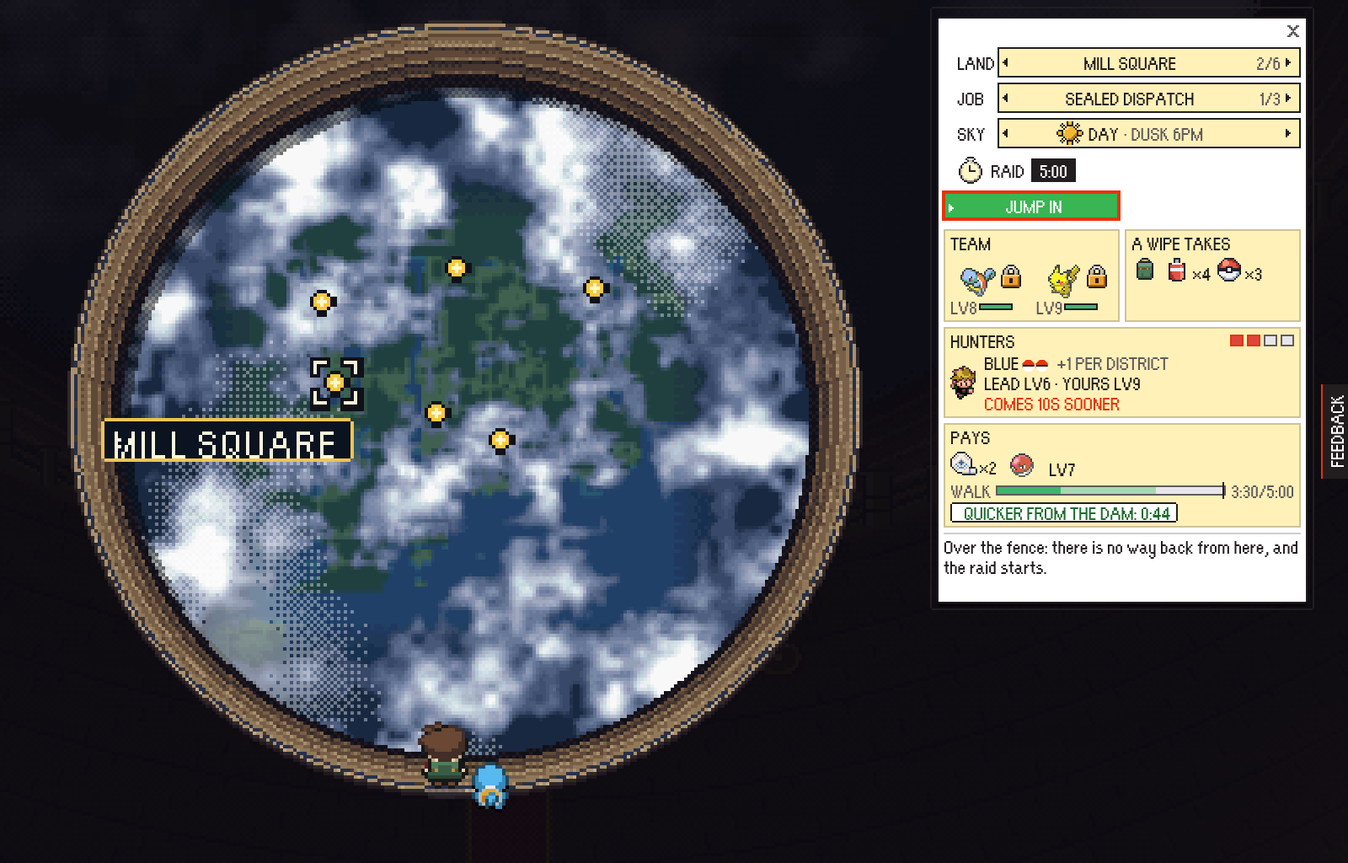
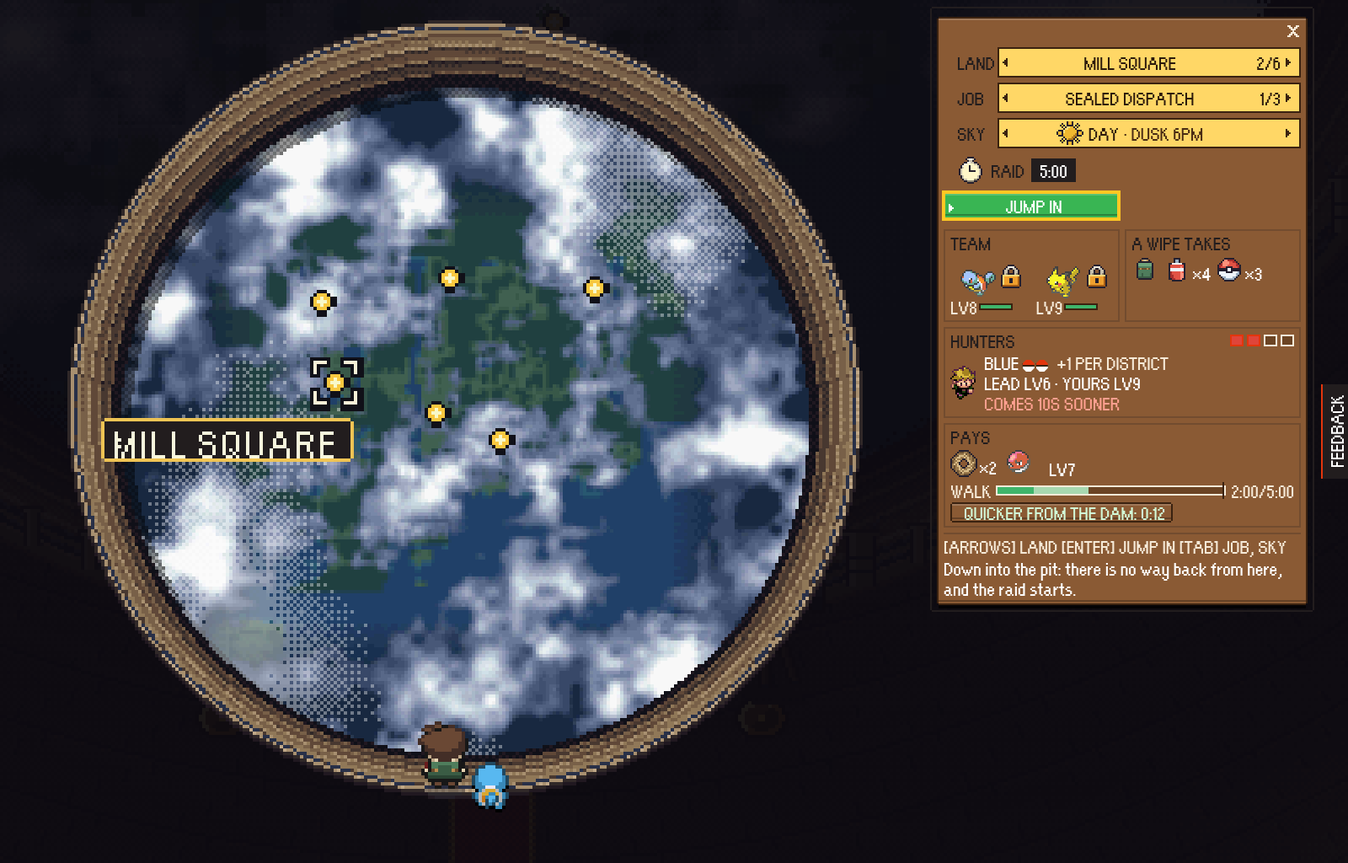
The rim's card stands on the wood floor: the card every raid is started from (#1026)
Down the side of the pit, in THE RAID ARENA: a white sheet, a quarter of
the picture plain white. The menu audit opens the hall's bench, rack and
locker and not its rim, so it was the last white screen found. It is on
the wood floor by view (`'rim'` in `WOOD_FLOOR_VIEWS`): 25% white to 0%,
colour 25 to 44.

- LAND, JOB and SKY are each a lit window beside their label: what
  stands in one is lettered in the plate's ink.
- A warning on the card's own boards - a hunter coming sooner, a walk
  the clock will not allow, a jump refused - is the light red the map
  maker's faults are. One inside a lit window keeps the page's.
- The front page's picture from the rim is retaken.

rimCard.mjs, rimRefusal.mjs and portal.mjs take --port, to drive the
one browser a worker is allowed, and start from no save when they do.

Changed region(s): [[0.6875, 0.0, 0.9688, 0.7188], [0.3125, 0.2812, 0.3438, 0.3438]]

diff --git a/src/style.test.ts b/src/style.test.ts
@@ -972,7 +972,7 @@ describe('the last white screens on the wood floor', () => {
     // The swap of a last Pokémon and the stats page: the hub and the stats scene have nothing under them.
     const wall = body('.pixel-ui.wood-floor .px-body:is(.starter-shell, .stats-layout, .stats-message-layout)');
     expect(wall).toContain('background: repeating-linear-gradient(180deg, var(--paper-sunk) 0 calc(var(--u) * 15), var(--line) calc(var(--u) * 15) calc(var(--u) * 16));');
-    expect(await readFile(new URL('./game/scenes/HubScene.ts', import.meta.url), 'utf8')).toContain("const WOOD_FLOOR_VIEWS: readonly HubView[] = ['workshop', 'trader', 'daycare', 'trades', 'reselect'];");
+    expect(await readFile(new URL('./game/scenes/HubScene.ts', import.meta.url), 'utf8')).toContain("const WOOD_FLOOR_VIEWS: readonly HubView[] = ['workshop', 'trader', 'daycare', 'trades', 'reselect', 'rim'];");
     // And the starter under the cursor or the pointer is lit: lettered in the plate's ink.
     expect(body('.pixel-ui.wood-floor .px-body .starter-card:is(.is-selected, :hover)')).toContain('--ink: var(--raised-ink);');
   });
@@ -985,6 +985,16 @@ describe('the last white screens on the wood floor', () => {
     expect(body(':where(.pixel-ui) .px-heading .px-tag-risk')).toContain('color: #ffa090;');
     // The tool in hand is a chip washed green: lettered in the plate's ink.
     expect(body('.pixel-ui.wood-floor .px-body .px-chip:is(.maker-tool, .maker-area).is-selected')).toContain('--ink: var(--raised-ink);');
+  });
+
+  it("letters the rim card's lit windows in ink, and its warnings on the boards in a red that reads", () => {
+    // The card every raid starts from: LAND, JOB and SKY are lit windows beside their labels.
+    expect(body('.pixel-ui.wood-floor .px-body .rim-choice > :not(.rim-choice-label)')).toContain('--ink: var(--raised-ink);');
+    const warnings = [...plain.matchAll(/([^{}]+)\{([^{}]*)\}/g)].find(([, selectors]) => selectors.includes('.pixel-ui.wood-floor .px-body .rim-card .px-warning,'));
+    expect(warnings?.[1]).toContain('.rim-walk.is-warn .rim-walk-time');
+    expect(warnings?.[2]).toContain('color: #ffa090;');
+    // One inside a lit window is on a plate, and keeps the page's red.
+    expect(body('.pixel-ui.wood-floor .px-body .rim-card .rim-choice .px-warning')).toContain('color: var(--red);');
   });
 
   it('makes the move chooser on it wherever it opens, beside a raid or over the chest', async () => {

diff --git a/src/style.css b/src/style.css
@@ -7500,6 +7500,23 @@ body.touch-play .feedback-tab {
 .pixel-ui.wood-floor .px-body .px-row.maker-fault:focus {
   color: var(--red);
 }
+/* The rim's card: LAND, JOB and SKY are each a lit window beside their label,
+   white under the cursor - what stands in one is on a plate. */
+.pixel-ui.wood-floor .px-body .rim-choice > :not(.rim-choice-label) {
+  --ink: var(--raised-ink);
+  --ink-soft: var(--raised-ink-soft);
+  color: var(--ink);
+}
+/* And a warning on the card's own boards - a hunter coming sooner, a walk the
+   clock will not allow, a jump refused - is the light red of a title strip's
+   warning: the page's red is dark on dark there. One in a lit window keeps it. */
+.pixel-ui.wood-floor .px-body .rim-card .px-warning,
+.pixel-ui.wood-floor .px-body .rim-card .rim-walk.is-warn .rim-walk-time {
+  color: #ffa090;
+}
+.pixel-ui.wood-floor .px-body .rim-card .rim-choice .px-warning {
+  color: var(--red);
+}
 /* A part there is enough of is a tag washed green, and so a plate too. */
 .pixel-ui.wood-floor .px-body :is(.part-tag, .workshop-cost):not(.is-short) {
   color: var(--raised-ink);

diff --git a/src/game/scenes/HubScene.ts b/src/game/scenes/HubScene.ts
@@ -269,10 +269,11 @@ type HubView = HubPanel | 'reselect' | 'workshop' | 'trader' | 'wallmap' | 'dayc
  * `style.css`, `docs/screens/wood-floor/`): a shop of shelves and a workshop
  * of benches, which were sheets of white paper, and the Day-Care's and the
  * Trader's, whose field is a place already and whose list under it was the
- * sheet, and the swap of a last Pokémon, three white cards on black. Oak's
- * screens and his map are not: they are drawn as his own.
+ * sheet, the swap of a last Pokémon, three white cards on black, and the
+ * rim's card, a white sheet beside the pit. Oak's screens and his map are
+ * not: they are drawn as his own.
  */
-const WOOD_FLOOR_VIEWS: readonly HubView[] = ['workshop', 'trader', 'daycare', 'trades', 'reselect'];
+const WOOD_FLOOR_VIEWS: readonly HubView[] = ['workshop', 'trader', 'daycare', 'trades', 'reselect', 'rim'];
 
 /**
  * How much of the menu layer a panel over the hall may take, in game pixels: as

diff --git a/docs/agents/ui-and-screens.md b/docs/agents/ui-and-screens.md
@@ -35,7 +35,7 @@ Moved out of `AGENTS.md` on 9 Nov 2026 so that file stays small; nothing here wa
 - **Every screen keeps one keys line that never goes** (the navigation audit, 25 Nov 2026, rule 9). `pixelScreen`'s help bar is three lines: the help for the control under the cursor (or the pointer) on the top two, and `hints` on the bottom one (`.px-keys`, `data-keys`), which no control's help replaces. A note about the screen as a whole that is not a key - what becomes of a raid's result - is `helpDefault`, shown on the help line while the control has nothing of its own to say. Before, the help took the keys line's place from the first frame and every hall panel hid its keys. A hall panel's keys are `HubScene.hints`; the rack names its own (Left and Right are the counts', Tab crosses to the pack). The keys lines speak one set of words: `ARROWS move` (or `ARROWS read` where nothing is chosen), the panel's OK word and what it does (`ENTER play`), the screen's own letters, then `ESC back` - never `ESC leaves`, `ESC close`, `O or ESC back` or `X close`, and never where back goes. A panel's OK word is ENTER, as its help lines say; a screen being typed in says ENTER too, since SPACE types a space there.
 - **Tab hops between the areas of a screen and never leaves the panel** (the navigation audit, 25 Nov 2026, rule 10). `MenuOverlay.moveCursor('Tab')` first crosses from a row into the pane it shows (`detailStepIndex`; out of the pane Tab goes on and Shift+Tab goes back to the row, because crossing back and forth never left a list with a pane), and otherwise goes to the next area - each outermost framed window that is not itself a control, the bar under them, the header - with Shift+Tab going back, landing where the cursor last was in that area (`areaHopIndex` in `ui/menuFocus.ts`). It always takes the key, so the browser's own Tab never walks the cursor out into the page; on a screen of one area it steps to the next control round the panel. Tab out of a text field is handed to the screen too (`overlayKeyboard.ts`, the one key a field does not keep), which is what keeps YOUR TEAM's FIND box from dropping the highlight off the panel. THE ARMOURY RACK used it to reach its PACK side; the rack opens YOUR THINGS now (`docs/screens/pack-flow/`). A screen that handles Tab itself (the boutique) is asked first, as before.
 - **Every menu and pop-up is the round-3 look, "a Poke Ball, opened": five colours, one job each, and no navy, blue or cream anywhere** (the captain, 25 Nov 2026: "It must be the new way of doing it ... Do not keep any of the old menu style"; the mock-ups and why are `docs/screens/menu-look/`). Ink and white are everything else (words, paper, lines, strips); **red is "can be lost"** (the raid pack, a wipe, the cursor's arrow) with one named exception, the title strip's seam; **gold is the chosen thing and prices** (the row under the cursor is gold's wash, a focused card is outlined in gold two pixels deep); **green is safe, ready, go** (the main button, the locker, healing). A Pokemon type is an ink chip with a small square of FireRed's own colour (`.px-type`, `--type`), so a type never competes with the five. `src/game/ui/uiPalette.ts` names the canvas colours by role (`UI.paper`, `UI.ink`, `UI.cursor`, `UI.pointed`...) and `uiPalette.test.ts` holds the text to WCAG AA and the stylesheet's tokens (`--paper`, `--paper-lit`, `--paper-sunk`, `--ink`, `--line`, `--red`, `--cursor`) to it. `drawFramedWindow` (in `pixelWindow.ts`) is one line of ink with clear corners round white paper; `FRAME_DEPTH` is still the inset every pop-up's words keep, and `drawPopupCursor` the red cursor with its shadow. The overworld and harbour dialogue boxes, `ChoicePrompt`, the phrase list and the battle are drawn in it; the harbour's box is the raid's width (`BASE_STAGE_WIDTH - 16`), because at 232 it held 38 letters a row and Nurse Joy's hello was ten presses cut mid-sentence. `ChoicePrompt` puts the answers in a window standing on the right end of the question's box, sharing its top line, one under another (or `columns` abreast, a lift's floors), every answer in full ink and the cursor the only mark, and each whole row a tap target. Anything that keeps clear of a question asks `ChoicePrompt.bounds`, which covers the answer window too. `tools/playtest/popupShots.mjs` photographs every pop-up the harbour opens (`--raid` for the raid's), and `tools/playtest/menusAudit.mjs` every menu the harbour opens. **On a DOM screen**: the title strip (`.px-title`) is ink with the red seam under it, a drawn Poke Ball before the name, the one number that matters in a white pill (`.px-title-aside`) and the X a white square that turns red under the cursor; behind a screen is the place it was opened in, dimmed (`--backdrop`, translucent, over the paused scene) rather than a pattern; a card (`.px-window`) is white in one line of ink with clear corners and a hard pixel shadow under it; its heading strip is ink, green on a `px-tone-care`/`px-tone-secure` card and red on a `px-tone-risk` one - the colour says what kind of card it is, never a tint over the paper; a button stands up on a pixel of ink and is green with white letters when it is the one that goes. The whole screen carries one ink line round it (`.px-screen::after`), painted over its own edge so it costs a column no room. **Over the map**, anything that reads as interface - a chip, a label, a name tag, the touch pad's key chips - is the same ink and white (`WINDOW_PAPER` is white; the harbour's fixture and landmark labels and the arena's name plates are ink); only what is painted in the world (a sign's wood, the FireRed controls of the pad) keeps its own colours. A screen with nothing to choose yet starts with no cursor rather than on its X (`HubScene`'s `refocus`).
-- **White is a plate, never the floor: a screen stands on the wood floor** (the captain, 26 Nov 2026, of the menus "that just have that bright white background": "something's just not quite right"; of the study's picks, "Go with all of your decisions"; and of the two mock-ups, "I actually prefer the kind of brown ... the woody colour, over the black. The army aesthetic of Tarkov shouldn't be used - it should all be Pokémon"; `docs/screens/wood-floor/` is the study, each screen's before and after and its colour score). The world has no white ground, so a screen that was a sheet of white paper was the brightest, greyest thing in the game - at night nearly three times as bright as the harbour behind it. A screen opts in with `wood-floor` beside `pixel-ui` where its `MenuOverlay` is made (`ThingsScene` and `ChestPokemonScene` were the first: YOUR THINGS, THE CHEST and everything they open; the three Game Corner cabinets and the promenade's games are on it with their line-ups, `docs/agents/harbour.md`; Bill's Cottage, Brock's Workshop, the Day-Care and the Trader are on it by view (`WOOD_FLOOR_VIEWS` in `HubScene`, toggled in `render`, because the hub's one overlay shows every keeper's screen, and Oak's own are not on it); YOUR TEAM (`TeamScene`, the hall's bench with it), the favours and the knock at a door (`FavourListOverlay`, `KnockOverlay`), the Battle Arena's counter, the feedback panel and the console's games were the last (a field is one plank there, and lit while it is typed in, so lettered in the plate's ink) and HELP and SETTINGS by `ControlsScene` (SETTINGS in the world's pixel as well: on paper there its one sheet was a bigger share of the screen than it had been in the finer one); the raid's own panels came after, found by photographing what `menusAudit.mjs` never opens (the pack and a disc read in it, the party, the field guide, and the move chooser wherever it opens: `BagScene`, `PartyScene`, `ObjectivesScene`, `MoveChooserOverlay`) - a party slot under the cursor, the leader's or one picked up and the pack's tile under the cursor are lettered in the plate's ink, and the move being learned, a move marked to forget and a bar turned green to ask are whole plates of the page's palette, because they carry coloured tags (`--safe-ink` and `--red-ink` are pale on wood); and the two naming screens, the swap of a last Pokémon (`'reselect'` in `WOOD_FLOOR_VIEWS`) and the owner's stats page, where **a screen with no place behind it stands its boards against a wall of darker boards, never on black** (`.px-body:is(.starter-shell, .stats-layout, .stats-message-layout)`: the captain prefers brown wood to black); and last the map maker and the explorer run's PLAYTEST BOARD, where **red words on the boards themselves are `#ffa090`, the light red of a title strip's warning** (the page's `--red` is dark on dark there and the floor's `--red-ink` too pale to read as red; a fault's tile is a raised chip and keeps the page's) - which is where it was learnt that **a block of ink lettered in white inside a body is `--bar`/`--bar-text` or `--plate-ink`/`--plate`, and anything written on gold is `--plate-ink`**: the shop card's head, count and key, HELP's key caps, Bill's rank and a price were `--ink` on `--paper`, and on wood came out white lettered in brown; and that a question asked before something is spent (`.px-arming`, washed red) is a plate whose warning is `--wash-red-ink`, the page's red being under 3:1 on that wash; `BoutiqueScene` is THE HARBOUR BOUTIQUE and the wardrobe, where the shelves are boards, a card on one a board of its own, the glass a plate of the lighter wood in its gold frame, and a lit card, a worn honour and a HAVE tag lettered in the plate's ink - and a key's cap (`.px-keycap`) and a strip drawn inside a body (`.bq-slot-head`) are `--plate-ink`/`--plate` and `--bar`/`--bar-text`, never `--ink`/`--paper`, which that floor remaps; the raid's result is on it whole - the moment, the full report, a lost raid's account and a raid settled elsewhere, `ExtractionScene.dressForWhatIsShown`. A tile washed by what became of its thing (`.result-tile`) is a plate lettered in the plate's ink, tick and all, and the bar a screen's way on stands on (`.confirm-bar`) is one plank, because a seam every sixteen pixels ran through the feet of its title), and `.pixel-ui.wood-floor .px-body` in `src/style.css` remaps what a body is drawn in: `--paper` is a board of warm brown wood (a card is boards, a seam every sixteen pixels: `--grain` on `.px-window`, reset on a control and on a plate), `--paper-sunk` an empty square, `--paper-raised` the plate of lighter wood a thing or a button stands on, `--paper-lit` and the washes light plates. The title strip and the help strip are outside the body and unchanged. **Wood is a middle tone, so only white and the palest inks read on a board and only dark ones on a raised plate**: `--ink`/`--ink-soft` and the coloured inks are near-white on the boards, whatever stands on a raised plate reads `--raised-ink` (one rule lists those parts: add a new raised part to it, and give it `color: var(--ink)` of its own, because `color` is inherited already worked out), and **words that are more than a label go on a plate of paper**: `px-plate` on a window (the description bar, a question) gives it the page's whole palette back, because the rule that names `:root` names it - and names whatever is lit or washed with words on it (the row under the cursor, a chosen row), so a lit row is FireRed's light bar with ink on it. **Every rule goes on reading `--paper` and `--ink` and is right on either floor**; what must stay white or ink whatever the floor says so with `--plate`/`--plate-ink` (a count's pill, a key's cap on a green button), the strips' `--bar`/`--bar-text`, or a literal white on a filled button. **Three rules of light go with the floor**, because a flat board is a flat sheet in another colour: a card has a lit lip and a dark foot (`--lip`, `--foot`, laid over whatever it is filled with, so a green button gets them too), an empty square is sunk and a filled one raised (`--sunk`, `--raised`, box-shadows that are nothing on paper), and a shadow is drawn at full strength (`--shade`). **A screen that is a thing is drawn as that thing, on the same rules**: THE POKéDEX is a red machine with a screen of green glass (`dex-floor`, its tokens at the head of the Pokédex's rules: the glass is its `--paper`, lined like a screen by `--grain`; `--casing` holds the count, the grid and a page; never met is unlit glass, met is lit low with a dark shape, owned is lit; a Pokémon's picture stands on a lit panel, `.dex-figures`, so one only met can be a silhouette). The rules of the floor that are not about a colour - a raised plate's ink, the paper plates, a disabled key - are written once for `:is(.wood-floor, .dex-floor)`; a new material adds its class there and its own tokens. **Nothing on a menu looks military**: no stencils, olive drab, crates as a style or tactical read-outs - the extraction is the borrowed mechanic, the look is a FireRed world's. `uiPalette.test.ts` holds every ink to WCAG AA on what it is written on and the boards to warm brown, and `tools/playtest/colourScore.mjs` scores a screenshot: the world is 27 to 35, a menu that reads as part of the game 16 or more, and the white sheets were 13 or less. The other white screens are moved over one pull request at a time; when the last is, the remap becomes the palette and the class goes.
+- **White is a plate, never the floor: a screen stands on the wood floor** (the captain, 26 Nov 2026, of the menus "that just have that bright white background": "something's just not quite right"; of the study's picks, "Go with all of your decisions"; and of the two mock-ups, "I actually prefer the kind of brown ... the woody colour, over the black. The army aesthetic of Tarkov shouldn't be used - it should all be Pokémon"; `docs/screens/wood-floor/` is the study, each screen's before and after and its colour score). The world has no white ground, so a screen that was a sheet of white paper was the brightest, greyest thing in the game - at night nearly three times as bright as the harbour behind it. A screen opts in with `wood-floor` beside `pixel-ui` where its `MenuOverlay` is made (`ThingsScene` and `ChestPokemonScene` were the first: YOUR THINGS, THE CHEST and everything they open; the three Game Corner cabinets and the promenade's games are on it with their line-ups, `docs/agents/harbour.md`; Bill's Cottage, Brock's Workshop, the Day-Care and the Trader are on it by view (`WOOD_FLOOR_VIEWS` in `HubScene`, toggled in `render`, because the hub's one overlay shows every keeper's screen, and Oak's own are not on it); YOUR TEAM (`TeamScene`, the hall's bench with it), the favours and the knock at a door (`FavourListOverlay`, `KnockOverlay`), the Battle Arena's counter, the feedback panel and the console's games were the last (a field is one plank there, and lit while it is typed in, so lettered in the plate's ink) and HELP and SETTINGS by `ControlsScene` (SETTINGS in the world's pixel as well: on paper there its one sheet was a bigger share of the screen than it had been in the finer one); the raid's own panels came after, found by photographing what `menusAudit.mjs` never opens (the pack and a disc read in it, the party, the field guide, and the move chooser wherever it opens: `BagScene`, `PartyScene`, `ObjectivesScene`, `MoveChooserOverlay`) - a party slot under the cursor, the leader's or one picked up and the pack's tile under the cursor are lettered in the plate's ink, and the move being learned, a move marked to forget and a bar turned green to ask are whole plates of the page's palette, because they carry coloured tags (`--safe-ink` and `--red-ink` are pale on wood); and the two naming screens, the swap of a last Pokémon (`'reselect'` in `WOOD_FLOOR_VIEWS`) and the owner's stats page, where **a screen with no place behind it stands its boards against a wall of darker boards, never on black** (`.px-body:is(.starter-shell, .stats-layout, .stats-message-layout)`: the captain prefers brown wood to black); and last the map maker and the explorer run's PLAYTEST BOARD, where **red words on the boards themselves are `#ffa090`, the light red of a title strip's warning** (the page's `--red` is dark on dark there and the floor's `--red-ink` too pale to read as red; a fault's tile is a raised chip and keeps the page's), and the rim's card (`'rim'` in `WOOD_FLOOR_VIEWS`), whose warnings on its own boards are that red too and whose LAND, JOB and SKY windows are plates - which is where it was learnt that **a block of ink lettered in white inside a body is `--bar`/`--bar-text` or `--plate-ink`/`--plate`, and anything written on gold is `--plate-ink`**: the shop card's head, count and key, HELP's key caps, Bill's rank and a price were `--ink` on `--paper`, and on wood came out white lettered in brown; and that a question asked before something is spent (`.px-arming`, washed red) is a plate whose warning is `--wash-red-ink`, the page's red being under 3:1 on that wash; `BoutiqueScene` is THE HARBOUR BOUTIQUE and the wardrobe, where the shelves are boards, a card on one a board of its own, the glass a plate of the lighter wood in its gold frame, and a lit card, a worn honour and a HAVE tag lettered in the plate's ink - and a key's cap (`.px-keycap`) and a strip drawn inside a body (`.bq-slot-head`) are `--plate-ink`/`--plate` and `--bar`/`--bar-text`, never `--ink`/`--paper`, which that floor remaps; the raid's result is on it whole - the moment, the full report, a lost raid's account and a raid settled elsewhere, `ExtractionScene.dressForWhatIsShown`. A tile washed by what became of its thing (`.result-tile`) is a plate lettered in the plate's ink, tick and all, and the bar a screen's way on stands on (`.confirm-bar`) is one plank, because a seam every sixteen pixels ran through the feet of its title), and `.pixel-ui.wood-floor .px-body` in `src/style.css` remaps what a body is drawn in: `--paper` is a board of warm brown wood (a card is boards, a seam every sixteen pixels: `--grain` on `.px-window`, reset on a control and on a plate), `--paper-sunk` an empty square, `--paper-raised` the plate of lighter wood a thing or a button stands on, `--paper-lit` and the washes light plates. The title strip and the help strip are outside the body and unchanged. **Wood is a middle tone, so only white and the palest inks read on a board and only dark ones on a raised plate**: `--ink`/`--ink-soft` and the coloured inks are near-white on the boards, whatever stands on a raised plate reads `--raised-ink` (one rule lists those parts: add a new raised part to it, and give it `color: var(--ink)` of its own, because `color` is inherited already worked out), and **words that are more than a label go on a plate of paper**: `px-plate` on a window (the description bar, a question) gives it the page's whole palette back, because the rule that names `:root` names it - and names whatever is lit or washed with words on it (the row under the cursor, a chosen row), so a lit row is FireRed's light bar with ink on it. **Every rule goes on reading `--paper` and `--ink` and is right on either floor**; what must stay white or ink whatever the floor says so with `--plate`/`--plate-ink` (a count's pill, a key's cap on a green button), the strips' `--bar`/`--bar-text`, or a literal white on a filled button. **Three rules of light go with the floor**, because a flat board is a flat sheet in another colour: a card has a lit lip and a dark foot (`--lip`, `--foot`, laid over whatever it is filled with, so a green button gets them too), an empty square is sunk and a filled one raised (`--sunk`, `--raised`, box-shadows that are nothing on paper), and a shadow is drawn at full strength (`--shade`). **A screen that is a thing is drawn as that thing, on the same rules**: THE POKéDEX is a red machine with a screen of green glass (`dex-floor`, its tokens at the head of the Pokédex's rules: the glass is its `--paper`, lined like a screen by `--grain`; `--casing` holds the count, the grid and a page; never met is unlit glass, met is lit low with a dark shape, owned is lit; a Pokémon's picture stands on a lit panel, `.dex-figures`, so one only met can be a silhouette). The rules of the floor that are not about a colour - a raised plate's ink, the paper plates, a disabled key - are written once for `:is(.wood-floor, .dex-floor)`; a new material adds its class there and its own tokens. **Nothing on a menu looks military**: no stencils, olive drab, crates as a style or tactical read-outs - the extraction is the borrowed mechanic, the look is a FireRed world's. `uiPalette.test.ts` holds every ink to WCAG AA on what it is written on and the boards to warm brown, and `tools/playtest/colourScore.mjs` scores a screenshot: the world is 27 to 35, a menu that reads as part of the game 16 or more, and the white sheets were 13 or less. The other white screens are moved over one pull request at a time; when the last is, the remap becomes the palette and the class goes.
 - **A screen arrives and leaves with a short move, played once, never from the stylesheet** (the captain, 25 Nov 2026: "show with animation, not text"; the menu study's fifth cause - one frame was the harbour and the next the whole menu; `docs/screens/wood-floor/`). `ui/menuMotion.ts` is all of it: a whole screen takes about a fifth of a second to arrive - the place dims, the title strip drops in, the cards (`.px-body`'s children) step up one after another, the help strip rises - and a tenth to leave; a side panel (the raid's pack, party and Oak) is the same screen in a column and moves the same way, and THE RAID ARENA's panels keep their own rule; **every move is stepped, nothing eases**, and reduced motion plays none. `MenuOverlay` plays the arrival on what a screen's *first* markup holds (a `MutationObserver`, then gone), because a screen is redrawn by replacing its markup and a rule in the stylesheet that moved a card would play again on every redraw - so **never animate a card's arrival in CSS**. A screen that comes straight after another - a tab, a question over a screen, one opened while another is still leaving - only steps its cards up, opaque, or the place would show for a step between two screens that both cover it. Leaving, a screen is **out of the menu layer at once**: `playLeaving` moves its root into a layer of its own under `#screens` (`.screens-leaving`, the menu layer's inline box copied, `inert`), marks it `data-leaving`, and removes it when the move ends, so `#screens > .menu-overlay` is still the one question "is a screen up?" and answers no from the moment it closes; anything that asks for `.menu-overlay` anywhere in the page (`dev/testDescribe.ts`) skips `[data-leaving]`. `destroy()` is safe to call twice. **In test mode a screen arrives and leaves at once** unless the address also says `menumotion=1` (`screensMove`): the moves run on the wall clock, which a stepped loop does not turn, and a driver that measures a screen in the instant it opens found a card a third of the way up; `tools/playtest/menuMotion.mjs` is the driver that asks, checks every move and records it. `arrivalPlan` is the timing as data, and `menuMotion.test.ts` holds it to a fifth of a second and to whole steps.
 - **A screen with few things on it is drawn in the world's own pixel: `px-world`** (the menu study's third cause, `docs/screens/wood-floor/`: the world is 3x and the menus 2x at 1280x800, 4x and 2x at 1920x1080, so a menu's lines and letters were two thirds the size of the world's, or half; the captain's pick, 26 Nov 2026: at the world's size, "except long lists"). `worldUnitFor` in `display/menuStage.ts` is the rule - the canvas's zoom, or the menus' own pixel wherever the layer could not hold the smallest screen at it (a phone, a window the touch pad shares) or the zoom is not whole - and `applyMenuStage` gives it to the menu layer as `--world-px` beside `--px` (`stageScaler` hands it the canvas's zoom). **`px-world` on an overlay's root, or on one window inside a screen, sets `--u` to it** and the type size with it, and everything inside goes on measuring in `--u`, so nothing else changes: a root's `data-room` and its columns are counted in its own pixel (`MenuOverlay` reads `--u` off the root), and at the world's pixel a screen has about 400x240 game pixels, which is `tight` or `short` - so **a screen that opts in must be laid out for a small room first**. SETTINGS (`ControlsScene`, toggled off for HELP, which is a list), a Pokédex page (`PokedexScene` toggles it per render: the list keeps the finer pixel) and THE CHEST's question were the first; the moment a raid that got out opens on is the fourth (`ExtractionScene.dressForWhatIsShown`, `docs/agents/raid-and-stash.md`), and the one whose help strip is as tall as what it says rather than the three lines every other screen keeps - at the world's pixel those were a fifth of the screen. **A list or a grid keeps the finer pixel**, which is what buys its rows, and a side panel does too: `fitSidePanel` counts the column in the layer's `--px`, and at the world's pixel a column wide enough for its words would cover the map it stands beside. A picture inside a screen in the finer pixel is still drawn at a multiple of that pixel, not the world's: there is no size that is whole in both.
 - Every panel in the game is one drawn frame: `src/game/ui/pixelWindow.ts` reproduces `assets/battle/hud-box.png` - a one-pixel `#171717` border with clear corners - at any size, because that texture is 32x32 and smears when stretched small. Cream fill is screen furniture (`RaidHud`), a tinted fill with a coloured border is world annotation (`src/game/ui/WorldLabel.ts`), and `DialogBox` takes `pixelWindow: true` for the same frame, and `.px-window` in `src/style.css` is its DOM twin - drawn as backgrounds so the corners stay clear without a clip. Nothing stretches a panel texture any more - the battle dialogue and the two name plates were the last, and `hud-box.png`/`dialog-plain.png` are kept for provenance but no longer loaded; `pixelWindow.test.ts` fails any scene that passes `backgroundTexture` again.

diff --git a/docs/readme/README.md b/docs/readme/README.md
@@ -20,7 +20,7 @@ number of screen pixels to the game pixel and stays sharp on a high-density disp
 | `harbour.png` | The harbour with every one of Brock's upgrades built, by day (1600x1024) | `harbourTour.mjs --built=all --clock=day --window=1600x1024 --at=readme:12:19`, its `readme.png`: standing on the jetty a raid comes home to |
 | `brocks-workshop.png` | Inside Brock's Workshop, every bay built (800x512) | `readmeShots.mjs --part=base --rooms=brocks-workshop` |
 | `the-bench.png` | Getting ready on the floor of the Raid Arena: the bench over the hall (800x512) | `arenaHall.mjs --window=800x512`, its `3-bench.png` |
-| `the-rim.png` | Looking down from the rim: the portal, the pit seen whole, with the card down the side (1600x1024, shown at half: an 800x512 window has no room for the portal beside the card) | `portal.mjs --window=1600x1024 --tz=Asia/Tokyo --eval=1`, its `5-looking-down-03.png` |
+| `the-rim.png` | Looking down from the rim: the portal, the pit seen whole, with the card down the side (1600x1024, shown at half: an 800x512 window has no room for the portal beside the card) | `portal.mjs --window=1600x1024 --tz=Etc/UTC --eval=1`, its `5-looking-down-03.png`: `--tz` is any zone where it is day when the picture is taken, because the pit keeps the clock's hour |
 | `pack.png` | The pack opened mid-raid, beside the three Potions and three Poké Balls it went out with, with a few finds put in the raid's own bag first: a crate, a roll of linen, a valve, a Super Potion, a Thunder Stone and ₽40 (800x512). Retaken when the pack went onto the wood floor: the picture before it was of a look three redraws old | `readmeShots.mjs` |
 | `map-maker.png` | The map maker with the sample map open at 1X, on the wood floor (1600x1000) | `readmeShots.mjs --part=maker --window=1600x1000` |
 | `extracted.png` | A raid that got out: the stage it opens on (800x512) | `resultMoment.mjs <build dir> <out> --window=800x512`, its `job-800x512.png`: a raid on the vale ended there on the driver's own report of a job done |

diff --git a/docs/screens/wood-floor/README.md b/docs/screens/wood-floor/README.md
@@ -249,6 +249,25 @@ white cards on black: they stand against a wall of darker boards now.
 The stats page signed in, with its numbers and its chart of a month, was not seen: it
 needs the owner's sign-in. Its rules name only the floor's own tokens.
 
+## The rim's card
+
+The card every raid is started from, down the side of the pit: a white sheet, a
+quarter of the picture. It was missed by the menu audit, which opens the hall's bench,
+rack and locker and not its rim, and by the first photographs.
+
+| | Before | After | Colour | White |
+|---|---|---|---|---|
+| Looking down from the rim | ![](before/the-rim.png) | ![](after/the-rim.png) | 25 to 44 | 25% to 0% |
+
+LAND, JOB and SKY are each a lit window beside their label, lettered in ink. A warning
+on the card's own boards (a hunter coming sooner, a walk the clock will not allow, a
+jump refused) is the light red the map maker's faults are:
+
+![](after/the-rim-refused.png)
+
+`rimCard.mjs`, `rimRefusal.mjs` and `portal.mjs` take `--port` now, to drive the one
+browser a worker is allowed, and start from no save when they do.
+
 ## The map maker and the PLAYTEST BOARD
 
 The whitest screen left: three sheets and a bar, 41% of the picture plain white.
